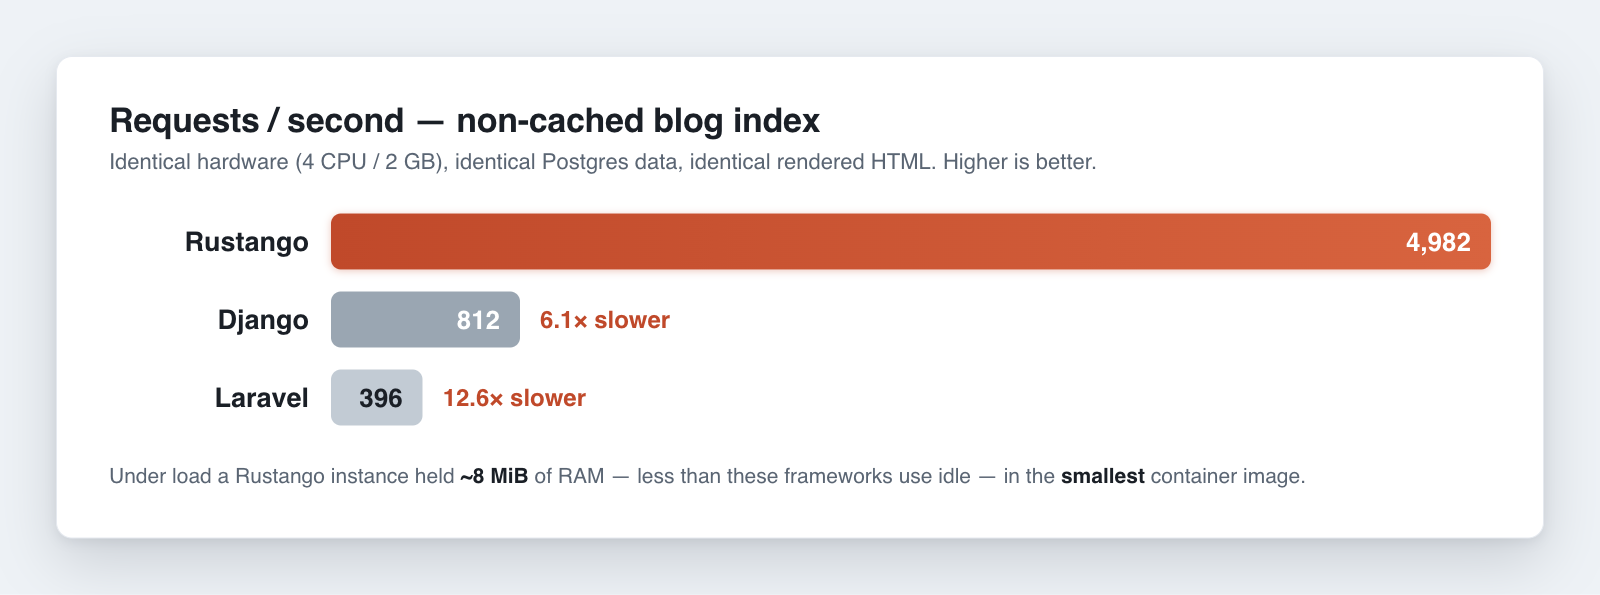
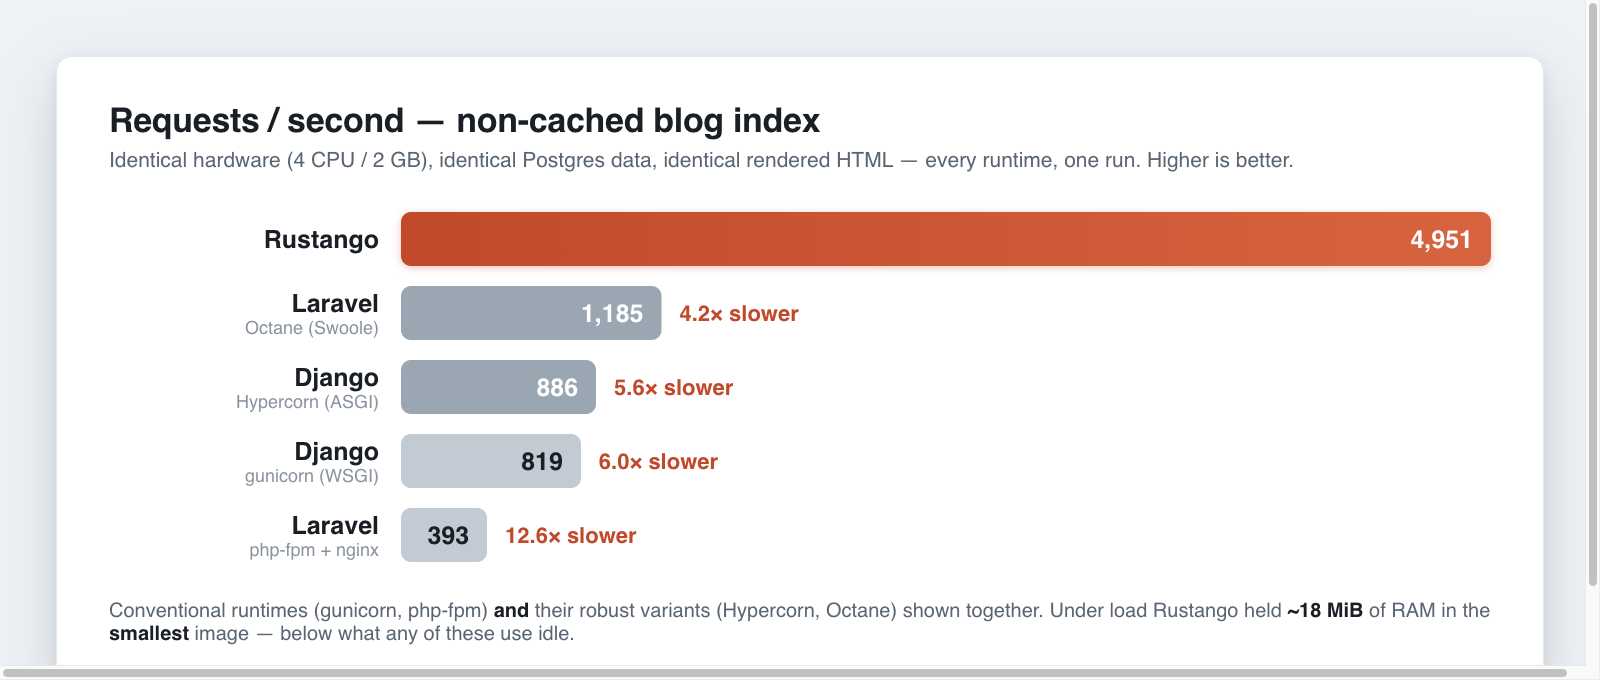
docs(benchmarks): measured Octane + Hypercorn robust-runtime results (#1073)
* docs(benchmarks): add measured robust-runtime results (Octane + Hypercorn)

The published benchmarks said Laravel-on-Octane / Django-on-ASGI "would narrow
the gap" but gave no numbers. The rustango-bench harness now includes both
variants and they're measured, so this adds a "Robust runtimes" section:

- Laravel + Octane (Swoole): 3–7× over php-fpm (cached detail 786 → 5 658 req/s).
- Django + Hypercorn (ASGI): roughly flat / slower on cached paths — the blog's
  views are sync, so ASGI just adds a threadpool hop with no async payoff.
- Both narrow but don't close the gap to Rustango; compute is unchanged.

Replaces the stale "would narrow the gap" caveat with a pointer to the measured
section. Same hardware cap, data, and endpoints; 100% success.

* docs(benchmarks): show all five runtimes together + regenerate the chart

Reflect every runtime in the main tables and the hero chart instead of tucking
the robust ones in a separate section — Django on gunicorn AND Hypercorn,
Laravel on php-fpm AND Octane, beside Rustango, all from one consistent run:

- New 5-bar chart (non-cached index): Rustango 4,951 · Laravel+Octane 1,185 ·
  Django+Hypercorn 886 · Django+gunicorn 819 · Laravel+php-fpm 393.
- Throughput / latency / footprint / efficiency / production-config tables all
  widened to the five runtimes; numbers from the same run.
- Folded the standalone "Robust runtimes" section into the throughput analysis;
[…]

Changed region(s): [[0.0625, 0.1513, 0.9375, 0.8471], [0.0, 0.8773, 1.0, 0.9983], [0.0312, 0.0, 1.0, 0.8471]]

diff --git a/docs/benchmarks.md b/docs/benchmarks.md
@@ -2,21 +2,25 @@
 
 How fast is **Rustango**, really? This page reports a head-to-head benchmark
 against the two frameworks **Rustango** is modeled on — Django and Laravel —
-using three *functionally identical* blog sites. Same data, same schema, same
-endpoints, same hardware budget. The only variable is the framework.
+using *functionally identical* blog sites. Same data, same schema, same
+endpoints, same hardware budget — the only variable is the runtime. Each
+framework is benchmarked in **both** its conventional production deployment *and*
+its more robust runtime: **Django** on **gunicorn** (WSGI) and on **Hypercorn**
+(ASGI); **Laravel** on **php-fpm + nginx** and on **Octane** (Swoole).
 
-Every number below is **measured and reproducible** — there's a one-command
-harness (see [Reproduce](#reproduce)). Nothing here is hand-waved.
+Every number below is **measured and reproducible**, from one consistent run of a
+one-command harness (see [Reproduce](#reproduce)). Nothing here is hand-waved.
 
-> **TL;DR.** On identical hardware, serving identical rendered-HTML blog pages,
-> **Rustango** handled **6×** the requests of Django and **12×** the requests of
-> Laravel on the non-cached index, while using **~25×** less memory and shipping
-> in the **smallest** container image. With a Redis page cache in front, the gap
-> widened to **7×** (Django) and **29×** (Laravel). On a pure CPU workload
-> (summing primes) it ran **35×** faster than Django and **23×** faster than
-> Laravel — compiled vs interpreted.
+> **TL;DR.** On identical hardware serving identical rendered-HTML pages,
+> **Rustango** handled **4,951 req/s** on the non-cached index — **6×** Django
+> (gunicorn) and **12.6×** Laravel (php-fpm). The frameworks' robust runtimes
+> narrow the gap but don't close it: even **Laravel on Octane** — the fastest
+> non-Rustango result — is **4.2×** behind, and **Django on Hypercorn** 5.6×.
+> Cached, the field tops out near **5.8k** req/s (Octane) against Rustango's
+> **30k**; on pure compute Rustango is **9–32×** ahead. It also used the least
+> RAM and shipped the smallest image.
 
-[![Requests per second on the non-cached blog index — Rustango 4,982 vs Django 812 (6.1× slower) vs Laravel 396 (12.6× slower), on identical hardware](/static/img/benchmarks.png?v=1)](/static/img/benchmarks.png?v=1)
+[![Requests/sec on the non-cached blog index across all five runtimes — Rustango 4,951, then Laravel+Octane 1,185, Django+Hypercorn 886, Django+gunicorn 819, Laravel+php-fpm 393](/static/img/benchmarks.png?v=2)](/static/img/benchmarks.png?v=2)
 
 ---
 
@@ -61,8 +65,10 @@ the *framework*, not template effort.
 | | Runtime | Production hardening |
 |---|---|---|
 | **Rustango** | one `--release` binary (axum + Tokio, async, all cores) | `opt-level=3` + LTO; Redis page cache via `CachePageLayer` |
-| **Django 5.2** | gunicorn, gthread workers + keep-alive | `DEBUG=False`; built-in Redis cache + `@cache_page`; persistent DB connections |
-| **Laravel 13** | php-fpm + nginx, OPcache **on**, 16 workers | `APP_ENV=production`; `composer install --no-dev --optimize-autoloader`; Blade views cached; `Cache::remember` on Redis |
+| **Django 5.2** · gunicorn | gthread workers + keep-alive (WSGI) | `DEBUG=False`; built-in Redis cache + `@cache_page`; persistent DB connections |
+| **Django 5.2** · Hypercorn | ASGI server, 4 workers, keep-alive | same app, served over ASGI; the sync views run in a threadpool |
+| **Laravel 13** · php-fpm | php-fpm + nginx, OPcache **on**, 16 workers | `APP_ENV=production`; `composer install --no-dev --optimize-autoloader`; Blade cached; `Cache::remember` on Redis |
+| **Laravel 13** · Octane | Octane + **Swoole**, persistent workers | same app on a memory-resident runtime — no per-request framework bootstrap |
 
 > Production mode is not a footnote. Laravel's first (un-tuned) run managed only
 > ~53 req/s; enabling OPcache, the optimized autoloader, and a proper worker
@@ -75,77 +81,89 @@ the *framework*, not template effort.
 
 ### Throughput — requests per second (higher is better)
 
-| Endpoint | **Rustango** | Django | Laravel | Rustango advantage |
-|---|--:|--:|--:|---|
-| index, non-cached | **4 982** | 812 | 396 | 6.1× / 12.6× |
-| index, **cached** | **30 455** | 4 133 | 1 059 | 7.4× / 28.8× |
-| detail, non-cached | **6 559** | 1 874 | 439 | 3.5× / 14.9× |
-| detail, **cached** | **43 044** | 4 250 | 848 | 10.1× / 50.8× |
-| tag, non-cached | **4 020** | 1 025 | 417 | 3.9× / 9.6× |
-| **compute** (CPU-bound) | **14 859** | 422 | 651 | 35.2× / 22.8× |
+Each framework in its conventional runtime **and** its robust runtime, beside
+Rustango:
 
-On the cached post-detail page, **Rustango** served **43 000 requests/second** —
-ten times Django and fifty times Laravel from the same 4-core box. And on the
-pure-compute endpoint it did **35×** Django's and **23×** Laravel's throughput.
+| Endpoint | **Rustango** | Django · gunicorn | Django · Hypercorn | Laravel · php-fpm | Laravel · Octane |
+|---|--:|--:|--:|--:|--:|
+| index, non-cached | **4 951** | 819 | 886 | 393 | 1 185 |
+| index, **cached** | **29 608** | 3 982 | 1 653 | 1 179 | 5 753 |
+| detail, non-cached | **6 491** | 1 805 | 896 | 457 | 1 751 |
+| detail, **cached** | **43 461** | 4 108 | 1 168 | 786 | 5 658 |
+| tag, non-cached | **4 079** | 978 | 921 | 402 | 1 149 |
+| **compute** (CPU-bound) | **13 586** | 419 | 395 | 693 | 1 502 |
 
-### Latency — p50 / p95 / p99 in milliseconds (lower is better)
+Two runtime stories jump out. **Laravel + Octane** (Swoole) is a **3–7× jump**
+over php-fpm — a resident worker that skips Laravel's per-request framework
+bootstrap — and is the fastest non-Rustango result on every page. **Django +
+Hypercorn** (ASGI) is roughly **flat, and slower on the cached paths**: the
+blog's views are *synchronous*, so ASGI just adds a threadpool hop with none of
+the concurrency payoff *async* views would bring — gunicorn's thread pool already
+saturates this I/O-bound workload. A robust runtime only helps if the app is
+written to use it. Even so, the best of the field (Octane, 1 185 req/s
+non-cached; 5 658 on cached detail) trails **Rustango**'s 4 951 / 43 461.
 
-| Endpoint | **Rustango** | Django | Laravel |
-|---|--:|--:|--:|
-| index, non-cached | **9.9 / 11.0 / 12.7** | 51 / 123 / 160 | 118 / 171 / 179 |
-| index, cached | **1.6 / 2.1 / 2.7** | 8.3 / 36 / 43 | 26 / 86 / 100 |
-| detail, non-cached | **7.5 / 8.4 / 9.8** | 25 / 47 / 54 | 109 / 160 / 171 |
-| detail, cached | **1.1 / 1.6 / 2.0** | 9.0 / 34 / 40 | 76 / 95 / 101 |
-| tag, non-cached | **12.2 / 13.7 / 16.9** | 47 / 80 / 93 | 114 / 160 / 170 |
-| compute (CPU-bound) | **3.4 / 5.3 / 6.0** | 118 / 169 / 202 | 91 / 103 / 113 |
+### Latency — p50 in milliseconds (lower is better)
 
-**Rustango**'s tail (p99) on the non-cached index — 12.7 ms — is lower than the
-*median* of either competitor, and its cached p99 (2.7 ms) is under Django's and
-Laravel's best-case numbers.
+| Endpoint | **Rustango** | Django · gunicorn | Django · Hypercorn | Laravel · php-fpm | Laravel · Octane |
+|---|--:|--:|--:|--:|--:|
+| index, non-cached | **9.9** | 51.5 | 47.7 | 118.0 | 40.7 |
+| index, cached | **1.7** | 8.9 | 26.6 | 20.9 | 7.5 |
+| detail, cached | **1.1** | 9.4 | 36.7 | 81.4 | 7.6 |
+| compute (CPU-bound) | **3.7** | 116.7 | 86.3 | 88.4 | 32.8 |
+
+(Medians shown; full p50 / p95 / p99 for every endpoint and runtime are in
+`bench/results/summary.tsv`.) **Rustango**'s median on the non-cached index
+(9.9 ms) is below every competitor's, and its cached median (1.1–1.7 ms) is an
+order of magnitude under even the fastest framework runtime.
 
 ### Footprint — image size, memory, CPU
 
-| | **Rustango** | Django | Laravel |
-|---|--:|--:|--:|
-| Container image (uncompressed) | **164 MB** | 290 MB | 959 MB |
-| RAM, idle | **2.6 MiB** | 128 MiB | 48 MiB |
-| RAM, under load | **8.5 MiB** | 219 MiB | 87 MiB |
-| CPU under load (of 400 % cap) | 312 % | 375 % | 404 % |
-| Boot to first response | **0.8 s** | 1.1 s | 1.0 s |
+| | **Rustango** | Django · gunicorn | Django · Hypercorn | Laravel · php-fpm | Laravel · Octane |
+|---|--:|--:|--:|--:|--:|
+| Container image (uncompressed) | **164 MB** | 290 MB | 293 MB | 959 MB | 1.01 GB |
+| RAM, idle | **12 MiB** | 130 MiB | 173 MiB | 92 MiB | 221 MiB |
+| RAM, under load | **18 MiB** | 231 MiB | 270 MiB | 131 MiB | 248 MiB |
+| CPU under load (of 400 % cap) | 311 % | 369 % | 406 % | 405 % | 336 % |
 
-A **Rustango** app under full load fits in **8 MiB** of RAM — less than these
-frameworks use sitting idle. The single static-ish binary also produces the
-smallest deployable image despite shipping with every battery included.
+A **Rustango** app under full load fits in **~18 MiB** of RAM — below what any of
+these use sitting *idle* — in the smallest image, despite shipping every battery
+included. Note the robust runtimes cost *more* memory, not less: Octane keeps a
+resident Laravel in every worker; Hypercorn adds the ASGI stack on top of Django.
 
 ### Efficiency — work done per resource (the real story)
 
 Raw throughput is one thing; **throughput per unit of resource** is what your
-cloud bill actually tracks.
+cloud bill actually tracks (non-cached index):
 
-| Metric (non-cached index) | **Rustango** | Django | Laravel |
-|---|--:|--:|--:|
-| Requests/sec **per MiB RAM** | **586** | 3.7 | 4.6 |
-| Requests/sec **per CPU %** | **16.0** | 2.2 | 1.0 |
+| Metric | **Rustango** | Django · gunicorn | Django · Hypercorn | Laravel · php-fpm | Laravel · Octane |
+|---|--:|--:|--:|--:|--:|
+| Requests/sec **per MiB RAM** | **269** | 3.6 | 3.3 | 3.0 | 4.8 |
+| Requests/sec **per CPU %** | **15.9** | 2.2 | 2.2 | 1.0 | 3.5 |
 
-Per megabyte of memory, **Rustango** does roughly **125× more work** than either
-framework. Put differently: to match one **Rustango** instance's index
-throughput you'd run ~6 Django or ~13 Laravel instances — each carrying its own
-multi-hundred-MB memory footprint.
+Per megabyte of memory, **Rustango** does **55–90× more work** than any of these
+runtimes, Octane included. To match one **Rustango** instance's index throughput
+you'd run ~4 Octane'd Laravels or ~6 gunicorn Djangos — each carrying its own
+multi-hundred-MB footprint.
 
 ---
 
 ## What the cache changes
 
-Every framework is fastest when a Redis page cache lets it skip the database and
-the render entirely — but the ranking and the multiples hold:
+Every runtime is fastest when a Redis page cache lets it skip the database and
+the render entirely — non-cached → **cached** index req/s:
 
-- **Rustango**: 4 982 → **30 455** req/s on the index (**6.1×** from caching).
-- **Django**: 812 → 4 133 req/s (5.1×).
-- **Laravel**: 396 → 1 059 req/s (2.7×).
+- **Rustango**: 4 951 → **29 608** (6.0× from caching).
+- **Laravel · Octane**: 1 185 → **5 753** (4.9×) — the field's best cached result.
+- **Django · gunicorn**: 819 → **3 982** (4.9×).
+- **Django · Hypercorn**: 886 → **1 653** (1.9×) — the ASGI threadpool overhead
+  caps the gain even on cache hits.
+- **Laravel · php-fpm**: 393 → **1 179** (3.0×).
 
 Caching helps everyone, but it doesn't erase the gap — even when no application
 code runs, the HTTP-accept → cache-read → response path differs by runtime, and
-**Rustango**'s async core stays ahead.
+**Rustango**'s async core (29 608 req/s) stays ~5× ahead of the best framework
+runtime.
 
 ---
 
@@ -183,9 +201,10 @@ A benchmark you can't poke holes in isn't worth publishing. So:
   using all cores with cheap tasks; Django and Laravel use fixed pools of
   worker processes/threads. That difference *is* part of the result, and the
   worker counts were set to sensible per-CPU values, not tuned to favor anyone.
-- Both competitors can go faster than their standard setups here: **Laravel on
-  Octane/FrankenPHP** and **Django on an async ASGI stack** would narrow the
-  gap. We benchmarked the conventional production deployment of each.
+- Each framework is shown in **both** runtimes in the tables above — conventional
+  (gunicorn, php-fpm) and robust (Hypercorn, Octane). **Laravel on Octane is
+  3–7× faster** than php-fpm; **Django on Hypercorn** (sync views) is roughly
+  flat. Both narrow the gap to Rustango; neither closes it.
 
 The point isn't that Django or Laravel are slow — they power a huge slice of the
 web. It's that **Rustango** gives you that same batteries-included developer
